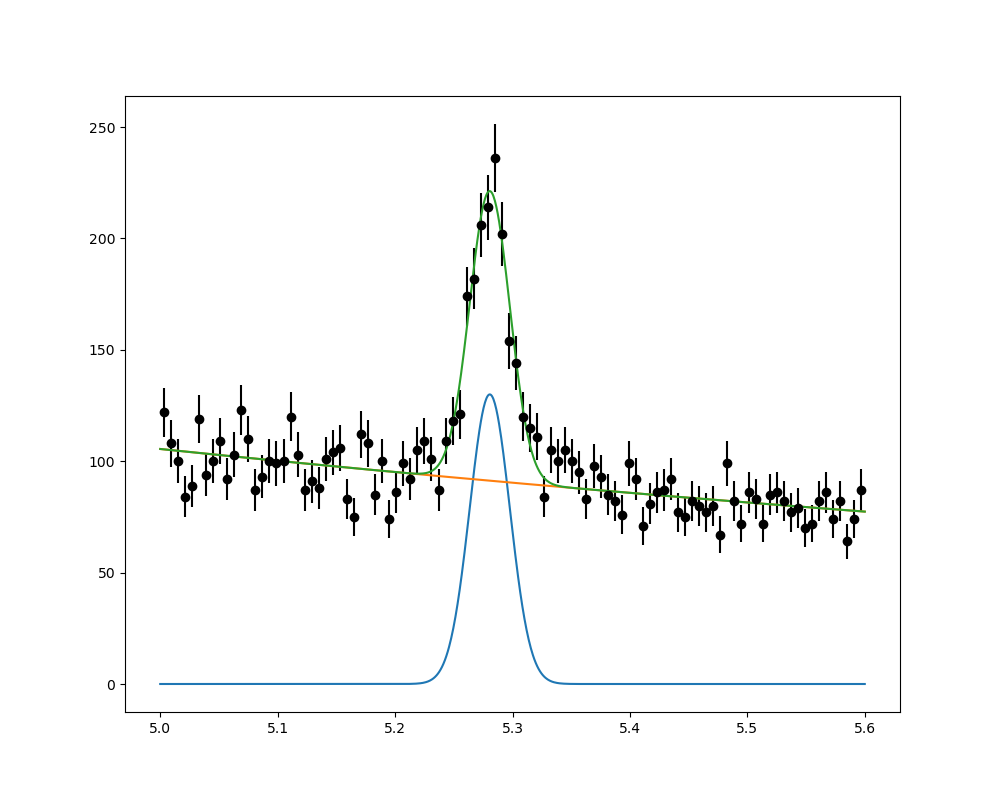
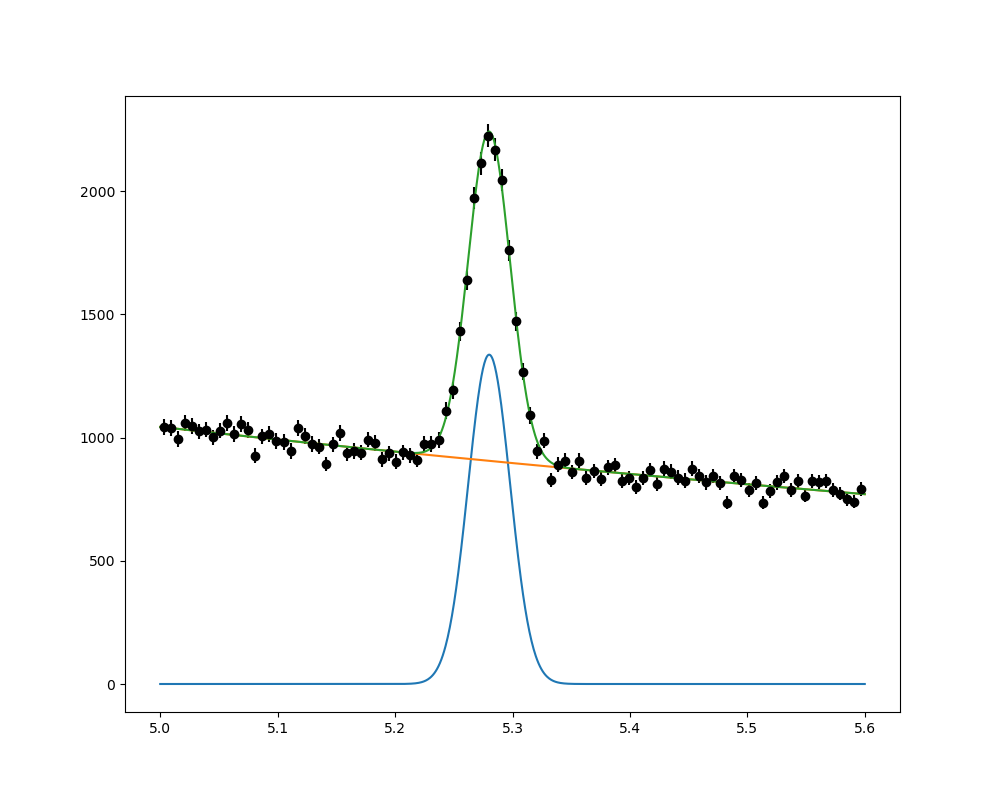
Feat: Use chi2 approximation to model H0, run first small simulation study, refactor code

diff --git a/src/mixed_pdf_tools.py b/src/mixed_pdf_tools.py
@@ -1,10 +1,12 @@
 import numpy as np
-from numba_stats import norm, expon
+from numba_stats import norm, expon, truncnorm, truncexpon
 from scipy.special import erf
 from scipy.integrate import quad
 import matplotlib.pyplot as plt
 from iminuit import Minuit
-from iminuit.cost import BinnedNLL
+from iminuit.cost import BinnedNLL, UnbinnedNLL
+from scipy.stats import chi2
+from tqdm import tqdm
 
 
 def pdf_norm_expon_mixed(x, f, la, mu, sg, alpha, beta):
@@ -15,13 +17,6 @@ def pdf_norm_expon_mixed(x, f, la, mu, sg, alpha, beta):
         - erf((alpha - mu) / (sg * np.sqrt(2)))
     )
     weight_b = (1 - f) / (np.exp(-la * alpha) - np.exp(-la * beta))
-    print(pdf_b)
-    print(
-        "Here:",
-        expon.pdf(x, loc=0, scale=1 / la),
-        la,
-        expon.pdf(x, loc=0.0, scale=5.0),
-    )
     return (weight_s * pdf_s) + (weight_b * pdf_b)
 
 
@@ -50,14 +45,12 @@ def plot_signal_background_mixed(
     la,
     mu,
     sg,
+    alpha,
+    beta,
     filename,
-    alpha=None,
-    beta=None,
     npoints=1001,
     sample_hist=None,
 ):
-    if alpha is None:
-        alpha, beta = 5.0, 5.6
     fig, ax = plt.subplots(figsize=(10, 8))
     x_plot = np.linspace(alpha, beta, npoints)
     if sample_hist is not None:
@@ -69,7 +62,7 @@ def plot_signal_background_mixed(
         scale_factor = 1
     pdf_s = norm.pdf(x_plot, loc=mu, scale=sg)
     pdf_b = expon.pdf(x_plot, loc=0, scale=1 / la)
-    pdf_sb = pdf_h1_fast(x_plot, f, la, mu, sg)
+    pdf_sb = pdf_norm_expon_mixed(x_plot, f, la, mu, sg, alpha, beta)
     weight_s = (2 * f) / (
         erf((beta - mu) / (sg * np.sqrt(2)))
         - erf((alpha - mu) / (sg * np.sqrt(2)))
@@ -81,95 +74,34 @@ def plot_signal_background_mixed(
     plt.savefig("outputs/" + filename)
 
 
-def rej_sample(pdf, sample_size, lower, upper, max_jobs, y_max=None):
-    x_vals = np.linspace(lower, upper, 100001)
-    if y_max is None:
-        y_max = np.max(pdf(x_vals))
-    sample = []
-    jobs = 0
-    while len(sample) < sample_size and jobs < max_jobs:
-        x = np.random.uniform(lower, upper)
-        y = np.random.uniform(0, y_max)
-        if y < pdf(x):
-            sample.append(x)
-        jobs += 1
-    return sample, jobs
-
-
-WEIGHT_B_H0 = 1.0 / (np.exp(-0.5 * 5.0) - np.exp(-0.5 * 5.6))
-
-
-def pdf_h0_fast(x, la=None):
-    if la is None:
-        return WEIGHT_B_H0 * expon.pdf(x, loc=0, scale=2.0)
-    else:
-        weight_b = 1.0 / (np.exp(-la * 5.0) - np.exp(-la * 5.6))
-        pdf_b = expon.pdf(x, loc=0, scale=1 / la)
-        return weight_b * pdf_b
-
-
-def cdf_h0_fast(x, la):
-    weight_b = 1.0 / (np.exp(-la * 5.0) - np.exp(-la * 5.6))
-    cdf_b = expon.cdf(x, loc=0, scale=1 / la) - expon.cdf(
-        5.0, loc=0, scale=1 / la
-    )
-    return weight_b * cdf_b
-
-
-WEIGHT_S_H1 = 0.2 / (
-    erf(0.32 / (0.018 * np.sqrt(2))) - erf(-0.28 / (0.18 * np.sqrt(2)))
-)
-WEIGHT_B_H1 = 0.9 / (np.exp(-0.5 * 5.0) - np.exp(-0.5 * 5.6))
-
-
-def pdf_h1_fast(x, f=None, la=None, mu=None, sg=None):
-    if la is None:
-        return (WEIGHT_S_H1 * norm.pdf(x, loc=5.28, scale=0.018)) + (
-            WEIGHT_B_H1 * expon.pdf(x, loc=0, scale=2.0)
-        )
-    else:
-        weight_s = (2 * f) / (
-            erf((5.6 - mu) / (sg * np.sqrt(2)))
-            - erf((5.0 - mu) / (sg * np.sqrt(2)))
-        )
-        weight_b = (1 - f) / (np.exp(-la * 5.0) - np.exp(-la * 5.6))
-        pdf_s = norm.pdf(x, loc=mu, scale=sg)
-        pdf_b = expon.pdf(x, loc=0, scale=1 / la)
-        return (weight_s * pdf_s) + (weight_b * pdf_b)
-
-
-def cdf_h1_fast(x, f, la, mu, sg):
-    weight_s = (2 * f) / (
-        erf((5.6 - mu) / (sg * np.sqrt(2)))
-        - erf((5.0 - mu) / (sg * np.sqrt(2)))
-    )
-    weight_b = (1 - f) / (np.exp(-la * 5.0) - np.exp(-la * 5.6))
-    cdf_s = norm.cdf(x, loc=mu, scale=sg) - norm.cdf(5.0, loc=mu, scale=sg)
-    cdf_b = expon.cdf(x, loc=0, scale=1 / la) - expon.cdf(
-        5.0, loc=0, scale=1 / la
-    )
-    return (weight_s * cdf_s) + (weight_b * cdf_b)
-
-
-def compute_llr(sample_array):
+def compute_llr(sample_array, h0_bool):
     # Separate the sample into bins.
     N = len(sample_array)
-    nh, xe = np.histogram(sample_array, bins=int(N / 1000), range=(5, 5.6))
+    nh, xe = np.histogram(sample_array, bins=int(N / 10), range=(5, 5.6))
 
     # Perform binned ML fit of parameters using signal+background model.
     nll_sb = BinnedNLL(nh, xe, cdf_h1_fast)
-    mi = Minuit(nll_sb, f=0.2, la=0.6, mu=5.3, sg=0.02)
-    mi.limits["f"] = (0, 1)
-    mi.limits["la"] = (1e-3, 1e2)
-    mi.limits["mu"] = (5.0, 5.6)
-    mi.limits["sg"] = (1e-9, 10)
+    mi = Minuit(nll_sb, f=0.0, la=0.5, mu=5.3, sg=0.018)
+    if h0_bool:
+        mi.limits["f"] = (-0.1, 0.1)
+        mi.values["f"] = 0.0
+    else:
+        mi.limits["f"] = (0.0, 0.2)
+        mi.values["f"] = 0.1
+    mi.limits["la"] = (0.4, 0.6)
+    mi.limits["mu"] = (5.2, 5.4)
+    mi.limits["sg"] = (0.01, 0.02)
+    mi.values["la"] = 0.5
+    mi.values["mu"] = 5.3
+    mi.values["sg"] = 0.018
     mi.migrad()
     nll_sb_value = mi.fval
 
     # Perform binned ML fit using background only model.
     nll_b = BinnedNLL(nh, xe, cdf_h0_fast)
-    mi = Minuit(nll_b, la=0.6)
-    mi.limits["la"] = (1e-3, 1e2)
+    mi = Minuit(nll_b, la=0.51)
+    mi.limits["la"] = (0.4, 0.6)
+    mi.values["la"] = 0.5
     mi.migrad()
     nll_b_value = mi.fval
 
@@ -203,15 +135,59 @@ for quantile_idx, quantile in enumerate(quantiles_h0):
 CDF_MIXED_INV_APPROX_H0 = 5.0 + 0.6 * cdf_mixed_inv_h0_01
 
 
-def sample_h1_fast(sample_size):
-    g = np.random.default_rng()
+def sample_h1_fast(sample_size, seed):
+    g = np.random.default_rng(seed=seed)
     uniform_sample = g.integers(low=0, high=(10**GRANULAR), size=sample_size)
     sample = CDF_MIXED_INV_APPROX_H1[uniform_sample]
     return sample
 
 
-def sample_h0_fast(sample_size):
-    g = np.random.default_rng()
+def sample_h0_fast(sample_size, seed):
+    g = np.random.default_rng(seed=seed)
     uniform_sample = g.integers(low=0, high=(10**GRANULAR), size=sample_size)
     sample = CDF_MIXED_INV_APPROX_H0[uniform_sample]
     return sample
+
+
+def cdf_h1_fast(x, f, la, mu, sg):
+    return (f * truncnorm.cdf(x, 5.0, 5.6, loc=mu, scale=sg)) + (
+        (1 - f) * truncexpon.cdf(x, 5.0, 5.6, loc=0.0, scale=1 / la)
+    )
+
+
+def cdf_h0_fast(x, la):
+    return truncexpon.cdf(x, 5.0, 5.6, loc=0.0, scale=1 / la)
+
+
+def pdf_h1_fast(x, f, la, mu, sg):
+    return (f * truncnorm.pdf(x, 5.0, 5.6, loc=mu, scale=sg)) + (
+        (1 - f) * truncexpon.pdf(x, 5.0, 5.6, loc=0.0, scale=1 / la)
+    )
+
+
+def pdf_h0_fast(x, la):
+    return truncexpon.pdf(x, 5.0, 5.6, loc=0.0, scale=1 / la)
+
+
+def chi2_pdf(x, dof):
+    return chi2.pdf(x, dof)
+
+
+def T_simulation(N, N_toys):
+    T_sb_sample = np.zeros(N_toys)
+    T_b_sample = np.zeros(N_toys)
+    for toy_idx in tqdm(range(N_toys)):
+        sample_array_sb = sample_h1_fast(N, toy_idx)
+        T_sb_sample[toy_idx] = compute_llr(sample_array_sb, h0_bool=False)
+
+        sample_array_b = sample_h0_fast(N, toy_idx)
+        T_b_sample[toy_idx] = compute_llr(sample_array_b, h0_bool=True)
+
+    nll = UnbinnedNLL(T_b_sample, chi2_pdf)
+    mi = Minuit(nll, dof=3.0)
+    mi.limits["dof"] = (0.0, 10.0)
+    mi.migrad()
+    dof_T_b = mi.values["dof"]
+    T0 = chi2.ppf(1 - (2.9e-7), dof_T_b)
+    power = np.sum(T_sb_sample > T0) / T_sb_sample.shape[0]
+    return T0, power

diff --git a/src/solve_part_f.py b/src/solve_part_f.py
@@ -1,29 +1,33 @@
-from mixed_pdf_tools import sample_h0_fast, sample_h1_fast, compute_llr
-import matplotlib.pyplot as plt
-from tqdm import tqdm
-import numpy as np
-from line_profiler import LineProfiler
+from mixed_pdf_tools import T_simulation
+import time
 
 
-def T_simulation(N, N_toys):
-    T_sb_sample = np.zeros(N_toys)
-    T_b_sample = np.zeros(N_toys)
-    for toy_idx in tqdm(range(N_toys)):
-        sample_array_sb = sample_h1_fast(N)
-        T_sb_sample[toy_idx] = compute_llr(sample_array_sb)
+N_toys = 1000
+N_list = []
+T0_list = []
+power_list = []
+N_min, N_max, N_step = 900, 1000, 20
+start = time.time()
+for N in range(N_min, N_max, N_step):
+    N_list.append(N)
+    T0, power = T_simulation(N, N_toys)
+    T0_list.append(T0)
+    power_list.append(power)
+end = time.time()
+exec_time = end - start
 
-        sample_array_b = sample_h0_fast(N)
-        T_b_sample[toy_idx] = compute_llr(sample_array_b)
+filename = "simulation_study_f_1.txt"
 
-    fig, ax = plt.subplots(figsize=(10, 8))
-    ax.hist(T_sb_sample)
-    plt.savefig("outputs/T_H1_simulation.png")
-    fig, ax = plt.subplots(figsize=(10, 8))
-    ax.hist(T_b_sample)
-    plt.savefig("outputs/T_H0_simulation.png")
-
-
-lp = LineProfiler()
-lp_wrapper = lp(T_simulation)
-lp_wrapper(100000, 100)
-lp.print_stats()
+with open("data/" + filename, "w") as f:
+    f.write(
+        "N_min: {}  N_max: {}   N_step: {}  N_toys: {}\n".format(
+            N_min, N_max, N_step, N_toys
+        )
+    )
+    f.write("Execution time = {}\n".format(exec_time))
+    for idx in range(len(N_list)):
+        f.write(
+            "N: {:>5}   |   T0: {:.6f}, Power: {:.6f}\n".format(
+                N_list[idx], T0_list[idx], power_list[idx]
+            )
+        )

diff --git a/src/solve_part_e.py b/src/solve_part_e.py
@@ -4,20 +4,22 @@ from iminuit.cost import BinnedNLL
 
 from mixed_pdf_tools import (
     sample_h1_fast,
-    cdf_h1_fast,
+    cdf_norm_expon_mixed,
     plot_signal_background_mixed,
 )
 
-sample_array = sample_h1_fast(10000, 47)
+sample_array = sample_h1_fast(100000, seed=1)
 nh, xe = np.histogram(sample_array, bins=100, range=(5, 5.6))
 
 # Perform binned ML fit of parameters.
-nll = BinnedNLL(nh, xe, cdf_h1_fast)
-mi = Minuit(nll, f=0.5, la=1.0, mu=5.3, sg=0.1)
+nll = BinnedNLL(nh, xe, cdf_norm_expon_mixed)
+mi = Minuit(nll, f=0.5, la=1.0, mu=5.3, sg=0.02, alpha=5.0, beta=5.6)
+mi.fixed["alpha"] = True
+mi.fixed["beta"] = True
 mi.limits["f"] = (0, 1)
-mi.limits["la"] = (1e-9, 1e3)
+mi.limits["la"] = (1e-9, 1e2)
 mi.limits["mu"] = (5.0, 5.6)
-mi.limits["sg"] = (1e-9, 10)
+mi.limits["sg"] = (1e-9, 1e2)
 
 print(mi.migrad())
 plot_signal_background_mixed(

diff --git a/src/solve_part_d.py b/src/solve_part_d.py
@@ -1,3 +1,5 @@
 from mixed_pdf_tools import plot_signal_background_mixed
 
-plot_signal_background_mixed(0.1, 0.5, 5.28, 0.018, "part_d_plot.png")
+plot_signal_background_mixed(
+    0.1, 0.5, 5.28, 0.018, 5.0, 5.6, "part_d_plot.png"
+)
